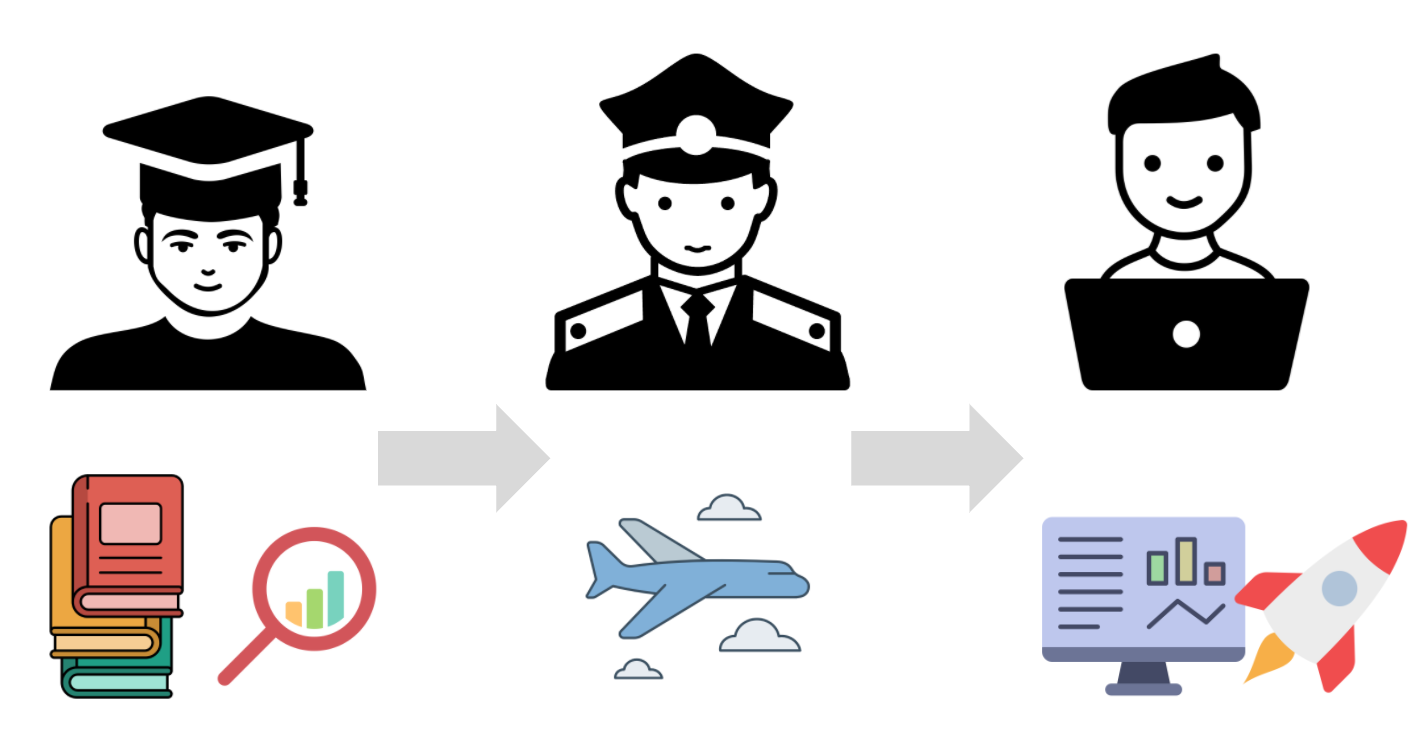
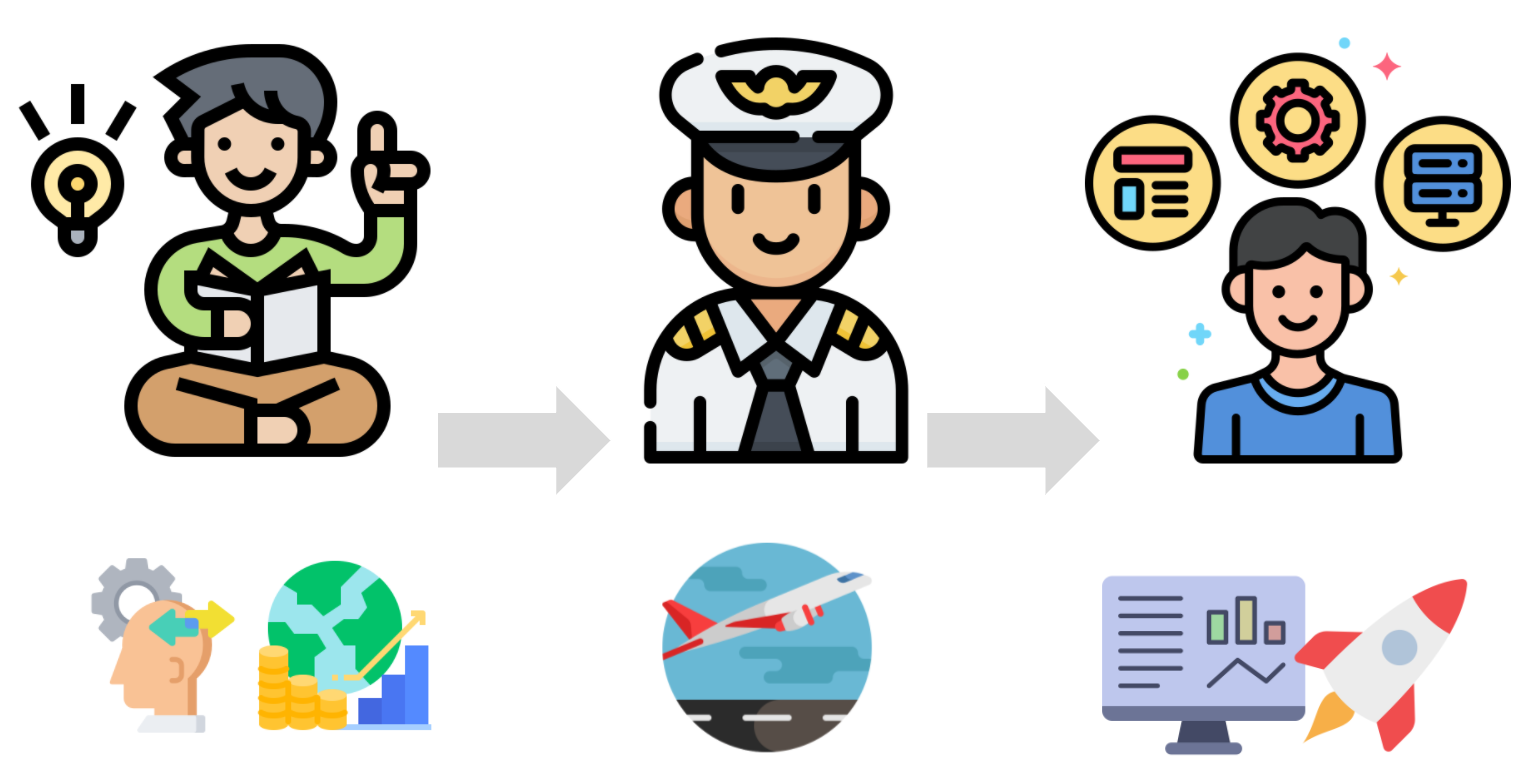
rebuilding site Sat May 15 16:01:48 WEDT 2021

diff --git a/about/index.html b/about/index.html
@@ -77,11 +77,7 @@
 <p>Applied random forest to identify determinants of unemployment duration</p>
 </li>
 </ol>
-<p>.</p>
-<!-- raw HTML omitted -->
-<!-- raw HTML omitted -->
-<!-- raw HTML omitted -->
-<!-- raw HTML omitted -->
+<p>Icons made by <a href="https://www.flaticon.com/authors/eucalyp">Eucalyp</a>, <a href="https://www.freepik.com/">Freepik</a>, <a href="https://www.flaticon.com/authors/ultimatearm">ultimatearm</a>, <a href="https://www.flaticon.com/authors/flat-icons">Flat Icons</a> from <a href="http://www.flaticon.com/">flaticon.com</a>.</p>
 
 
     
